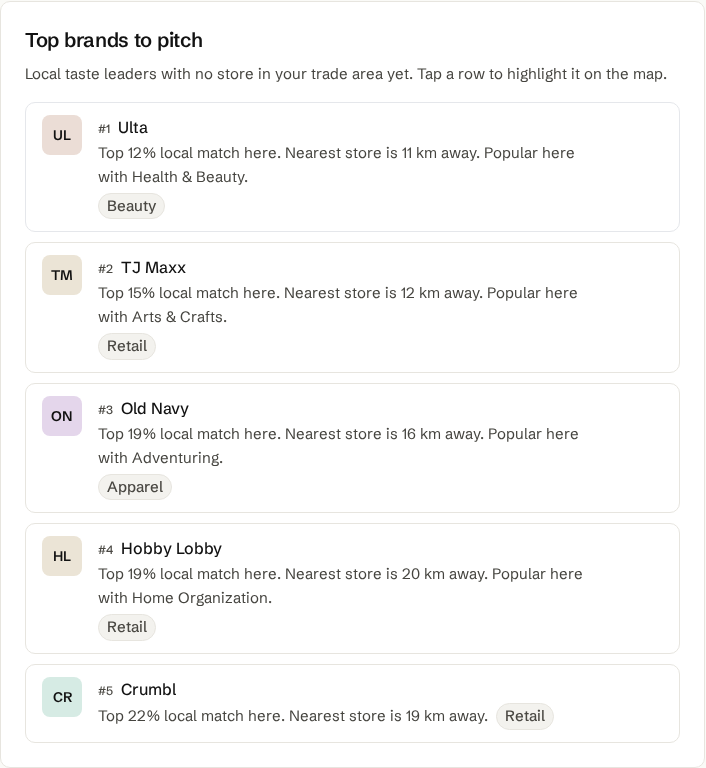
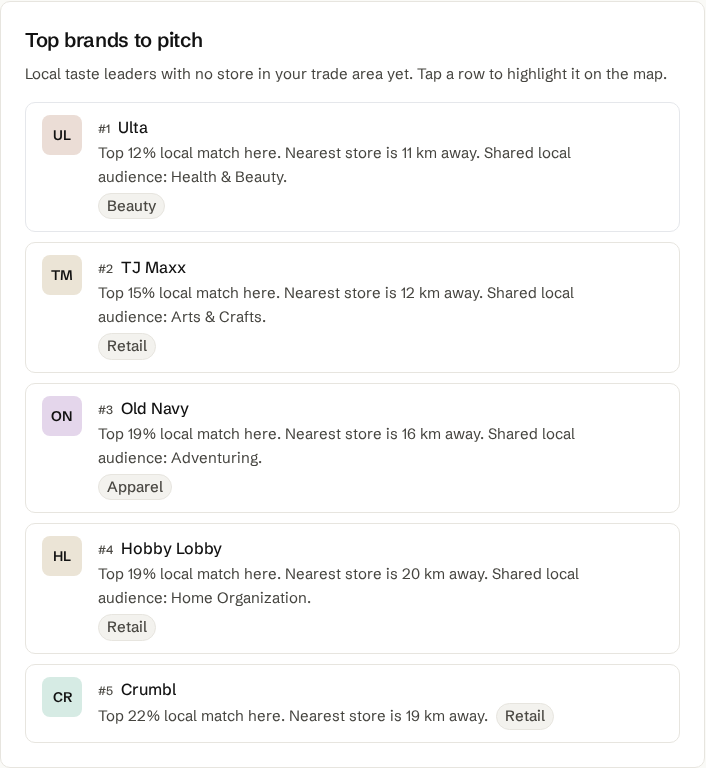
Use Shared local audience pitch fallback copy
Replace Popular here with wording for interest-style Qloo audience names.
Remove deprecated shoppersAlsoFavorHighlight. Regenerate Boulder 1440 screenshot.

diff --git a/apps/web/src/__tests__/prospect-one-line.test.ts b/apps/web/src/__tests__/prospect-one-line.test.ts
@@ -75,7 +75,7 @@ describe('prospectOneLineReason', () => {
       10
     );
     expect(line).not.toContain('Hotel');
-    expect(line).toContain('Popular here with Health & Beauty');
+    expect(line).toContain('Shared local audience: Health & Beauty');
   });
 
   it('prefers co-tenancy line over shopper-favor fallback', () => {
@@ -90,7 +90,7 @@ describe('prospectOneLineReason', () => {
       10
     );
     expect(line).toContain('Pairs well with Target nearby');
-    expect(line).not.toContain('Popular here with');
+    expect(line).not.toContain('Shared local audience');
     expect(line).not.toContain('Cooking');
   });
 
@@ -123,7 +123,7 @@ describe('prospectOneLineReason', () => {
       10
     );
     expect(a).not.toBe(b);
-    expect(a).toContain('Popular here with Sneakerheads');
+    expect(a).toContain('Shared local audience: Sneakerheads');
     expect(b).toContain('Top 20% local match here');
     expect(b).not.toContain('Category fit');
   });

diff --git a/apps/web/src/lib/broker-copy.ts b/apps/web/src/lib/broker-copy.ts
@@ -73,12 +73,7 @@ export function audienceOverlapHighlight(audience: string): string {
 
 /** Pitch-row fallback when co-tenancy is missing but whyBrandTaste overlap is verified. */
 export function localAudiencePitchHighlight(audience: string): string {
-  return `Popular here with ${audience}`;
-}
-
-/** @deprecated use localAudiencePitchHighlight */
-export function shoppersAlsoFavorHighlight(audience: string): string {
-  return localAudiencePitchHighlight(audience);
+  return `Shared local audience: ${audience}`;
 }
 
 export function dataConfidenceStatTooltip(): string {

diff --git a/docs/CO_TENANCY.md b/docs/CO_TENANCY.md
@@ -6,7 +6,7 @@ The pairing uses `query.explainability["signal.interests.entities"]` on the pitc
 (per-incumbent share). `query.affinity` is flat (about 0.9 for every brand) and is not used.
 Lines are shown only when an incumbent clearly stands out (see `apps/worker/src/lib/co-tenancy-pairing.ts`).
 
-When no co-tenancy line qualifies, the pitch row may show `Popular here with {audience}` only when
+When no co-tenancy line qualifies, the pitch row may show `Shared local audience: {audience}` only when
 that audience comes from verified brand x location overlap in `whyBrandTaste` (live-audiences recordings).
 
 Record with a live API key (no mocks). Pitches and incumbents come from the local demo worker so

diff --git a/docs/screenshots/co-tenancy-fallback/README.md b/docs/screenshots/co-tenancy-fallback/README.md
@@ -1,6 +1,6 @@
 # Co-tenancy audience fallback (PR #127)
 
-1440px crops of **Top brands to pitch** on demo reports after copy uses `Popular here with {audience}` when `coTenancyLine` is absent.
+1440px crops of **Top brands to pitch** on demo reports after copy uses `Shared local audience: {audience}` when `coTenancyLine` is absent.
 
 | File | Site |
 |------|------|
